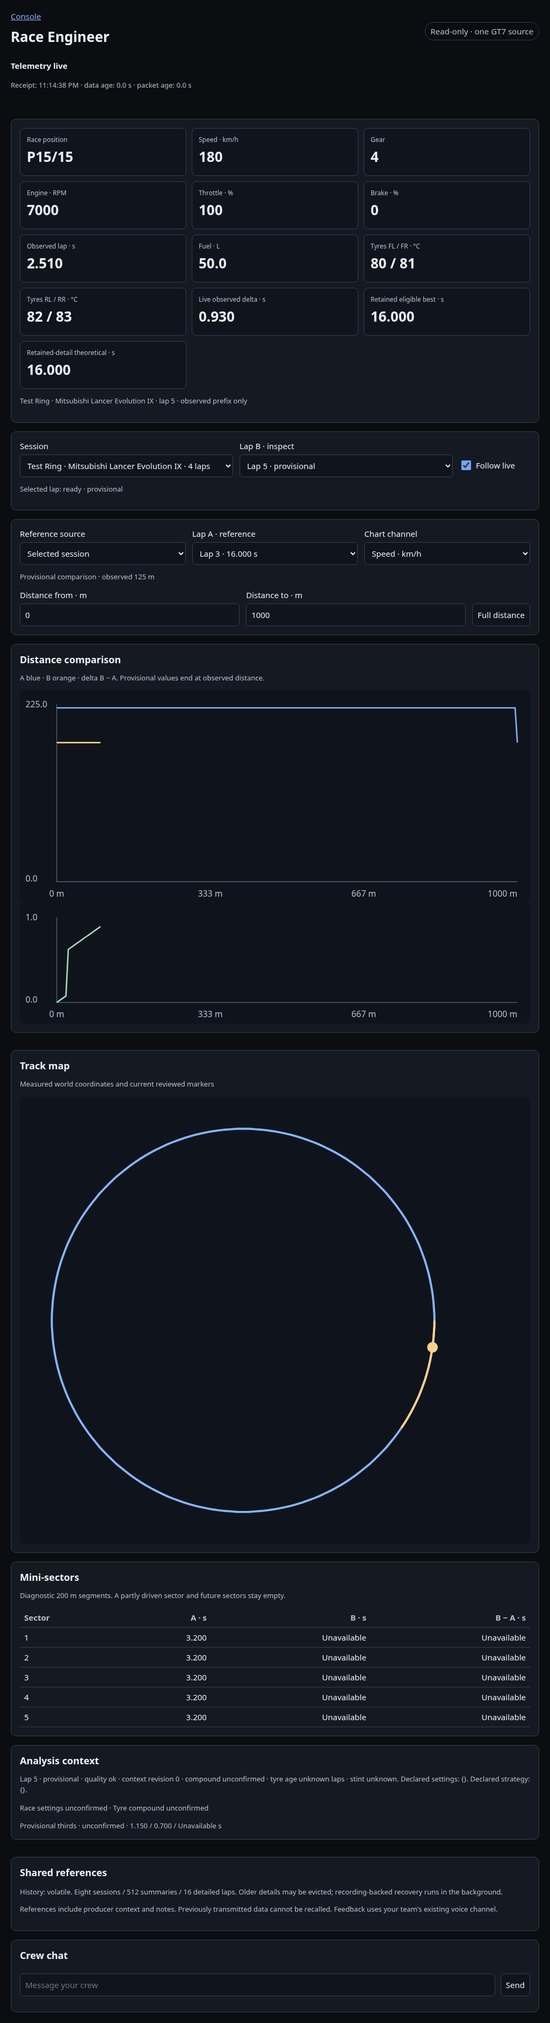
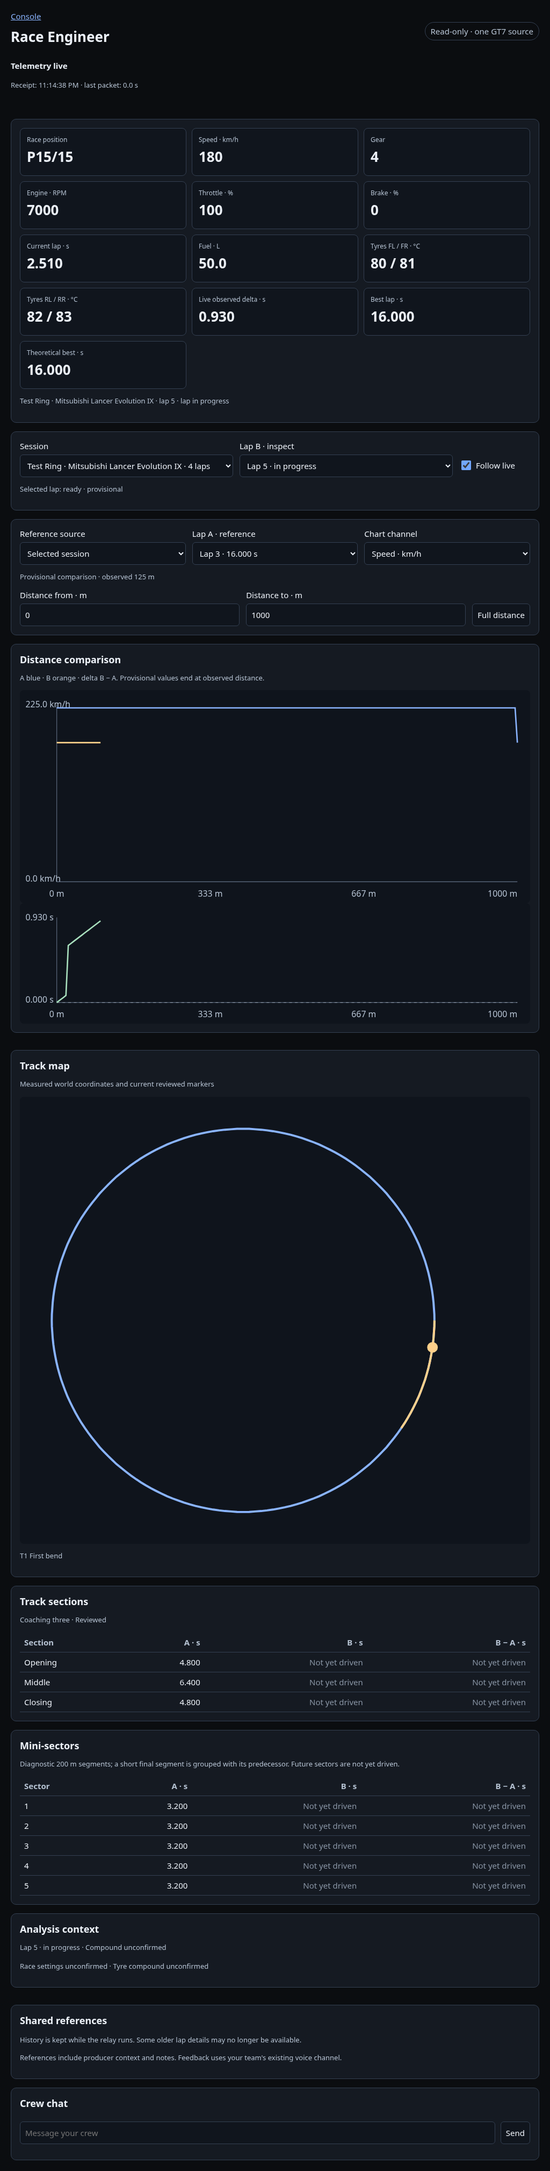
fix: clarify Engineer analysis values and sector displays

diff --git a/src/console/race-engineer.html b/src/console/race-engineer.html
@@ -6,7 +6,7 @@
 *{box-sizing:border-box}body{margin:0;background:var(--bg);color:var(--ink);font:15px system-ui}main{max-width:1600px;margin:auto;padding:20px}a{color:var(--blue)}header{display:flex;justify-content:space-between;align-items:center;gap:12px;flex-wrap:wrap}h1{font-size:26px;margin:10px 0}h2{font-size:18px;margin:0 0 12px}p{line-height:1.5}section,.card{background:var(--panel);border:1px solid var(--edge);border-radius:10px;padding:16px;margin-top:16px}.sub{color:var(--muted);font-size:13px}#status{font-weight:650}#notice{color:var(--orange);min-height:22px}#receipt{font-variant-numeric:tabular-nums}#instruments{display:grid;grid-template-columns:repeat(6,minmax(0,1fr));gap:10px}.value{padding:12px;border:1px solid var(--edge);border-radius:8px;background:#10151d}.value span{display:block;color:var(--muted);font-size:12px}.value strong{display:block;font-size:26px;margin:5px 0;font-variant-numeric:tabular-nums}.dim #instruments,.dim #plots{opacity:.5}.controls{display:flex;flex-wrap:wrap;gap:12px;align-items:end}.controls label{display:flex;flex-direction:column;gap:6px;flex:1;min-width:150px}.controls .check{flex:0 0 auto;flex-direction:row;align-items:center;min-width:120px;min-height:44px}select,input,button{font:inherit;color:var(--ink);background:#10151d;border:1px solid var(--edge);border-radius:6px;padding:9px;min-height:42px;max-width:100%}button{cursor:pointer}button:hover{border-color:var(--blue)}button:disabled{opacity:.5;cursor:default}input[type=checkbox]{min-height:0;width:18px;height:18px;accent-color:#72a7ff}input[type=range]{padding:0}#plots{display:grid;grid-template-columns:1.4fr 1fr;gap:16px}.plot-card{min-width:0}svg{display:block;width:100%;height:auto;background:#0f141c;border-radius:8px}svg text{fill:var(--muted);font:12px system-ui}#context-grid{display:grid;grid-template-columns:1fr 1fr;gap:16px}.scroll{overflow-x:auto}table{border-collapse:collapse;width:100%;font-variant-numeric:tabular-nums}th,td{text-align:right;padding:8px;border-bottom:1px solid var(--edge);white-space:nowrap}th:first-child,td:first-child{text-align:left}th{color:var(--muted)}#references{padding-left:22px}#references li{margin:6px 0}#chatlog{max-height:180px;overflow:auto;white-space:pre-wrap}#chat-form{display:flex;gap:10px;margin-top:10px}#chatin{flex:1;min-width:0}.mobile-note{display:none}.badge{padding:6px 10px;border:1px solid var(--edge);border-radius:20px;color:var(--muted)}[hidden]{display:none!important}
 @media(max-width:1200px){#instruments{grid-template-columns:repeat(3,minmax(0,1fr))}#plots{grid-template-columns:1fr}#context-grid{grid-template-columns:1fr}}
 @media(max-width:600px){main{padding:12px}h1{font-size:23px}#instruments{grid-template-columns:repeat(2,minmax(0,1fr))}.value strong{font-size:23px}.controls label{min-width:130px}#analysis{display:none}.mobile-note{display:block}.badge{font-size:12px}section{padding:12px}#chat-form{flex-wrap:wrap}}
-</style>
+.not-driven{color:#8995a5;font-weight:400}.gain{color:#a8dfbd}.loss{color:#ffd08a}</style>
 <script>window.RC_API_BASE="__RC_API_BASE__";window.RC_API=p=>(window.RC_API_BASE||'')+p;if(location.search)history.replaceState({},'',location.pathname);</script>
 </head><body><main>
 <header><div><a href="/console">Console</a><h1>Race Engineer</h1></div><span class="badge">Read-only · one GT7 source</span></header>
@@ -14,16 +14,17 @@
 <div id="protected" hidden>
 <section aria-label="Live instruments"><div id="instruments">
 <div class="value"><span>Race position</span><strong id="race-position">Unavailable</strong></div>
-<div class="value"><span>Speed · km/h</span><strong id="speed">Unavailable</strong></div><div class="value"><span>Gear</span><strong id="gear">Unavailable</strong></div><div class="value"><span>Engine · RPM</span><strong id="rpm">Unavailable</strong></div><div class="value"><span>Throttle · %</span><strong id="throttle">Unavailable</strong></div><div class="value"><span>Brake · %</span><strong id="brake">Unavailable</strong></div><div class="value"><span>Observed lap · s</span><strong id="lap-time">Unavailable</strong></div>
-<div class="value"><span>Fuel · L</span><strong id="fuel">Unavailable</strong></div><div class="value"><span>Tyres FL / FR · °C</span><strong id="tyres-front">Unavailable</strong></div><div class="value"><span>Tyres RL / RR · °C</span><strong id="tyres-rear">Unavailable</strong></div><div class="value"><span>Live observed delta · s</span><strong id="delta">Unavailable</strong></div><div class="value"><span>Retained eligible best · s</span><strong id="best">Unavailable</strong></div><div class="value"><span>Retained-detail theoretical · s</span><strong id="theory">Unavailable</strong></div>
+<div class="value"><span>Speed · km/h</span><strong id="speed">Unavailable</strong></div><div class="value"><span>Gear</span><strong id="gear">Unavailable</strong></div><div class="value"><span>Engine · RPM</span><strong id="rpm">Unavailable</strong></div><div class="value"><span>Throttle · %</span><strong id="throttle">Unavailable</strong></div><div class="value"><span>Brake · %</span><strong id="brake">Unavailable</strong></div><div class="value"><span>Current lap · s</span><strong id="lap-time">Unavailable</strong></div>
+<div class="value"><span>Fuel · L</span><strong id="fuel">Unavailable</strong></div><div class="value"><span>Tyres FL / FR · °C</span><strong id="tyres-front">Unavailable</strong></div><div class="value"><span>Tyres RL / RR · °C</span><strong id="tyres-rear">Unavailable</strong></div><div class="value"><span>Live observed delta · s</span><strong id="delta">Unavailable</strong></div><div class="value"><span>Best lap · s</span><strong id="best">Unavailable</strong></div><div class="value"><span>Theoretical best · s</span><strong id="theory">Unavailable</strong></div>
 </div><p id="source-state" class="sub"></p></section>
 <section><div class="controls"><label>Session<select id="session"></select></label><label>Lap B · inspect<select id="lap-b"></select></label><label class="check"><input id="follow" type="checkbox" checked>Follow live</label><span id="new-laps" class="sub" role="status"></span></div><p id="lap-state" class="sub">Waiting for analysis</p><p class="mobile-note sub">Charts, map and extensive comparison are available on tablet and desktop.</p></section>
 <div id="analysis">
 <section><div class="controls"><label>Reference source<select id="reference-source"><option value="">Selected session</option></select></label><label>Lap A · reference<select id="lap-a"></select></label><label>Chart channel<select id="channel"><option value="speed_kmh">Speed · km/h</option><option value="throttle">Throttle · %</option><option value="brake">Brake · %</option><option value="steer_deg">Steering · degrees</option><option value="gear">Gear</option></select></label></div><p id="comparison-state" class="sub">Choose an eligible reference lap</p><div class="controls"><label>Distance from · m<input id="zoom-from" type="number" min="0" value="0"></label><label>Distance to · m<input id="zoom-to" type="number" min="1" value="1000"></label><button id="zoom-reset" type="button">Full distance</button></div></section>
-<div id="plots"><section class="plot-card"><h2>Distance comparison</h2><p class="sub">A blue · B orange · delta B − A. Provisional values end at observed distance.</p><svg id="chart" viewBox="0 0 720 300" aria-label="Telemetry chart" role="img"></svg><svg id="delta-chart" viewBox="0 0 720 170" aria-label="Time delta chart" role="img"></svg></section><section class="plot-card"><h2>Track map</h2><p class="sub">Measured world coordinates and current reviewed markers</p><svg id="map" viewBox="0 0 480 420" aria-label="Measured lap track map" role="img"></svg></section></div>
-<section><h2>Mini-sectors</h2><p class="sub">Diagnostic 200 m segments. A partly driven sector and future sectors stay empty.</p><div class="scroll"><table id="sectors"><thead><tr><th>Sector</th><th>A · s</th><th>B · s</th><th>B − A · s</th></tr></thead><tbody></tbody></table></div></section>
+<div id="plots"><section class="plot-card"><h2>Distance comparison</h2><p class="sub">A blue · B orange · delta B − A. Provisional values end at observed distance.</p><svg id="chart" viewBox="0 0 720 300" aria-label="Telemetry chart" role="img"></svg><svg id="delta-chart" viewBox="0 0 720 170" aria-label="Time delta chart" role="img"></svg></section><section class="plot-card"><h2>Track map</h2><p class="sub">Measured world coordinates and current reviewed markers</p><svg id="map" viewBox="0 0 480 420" aria-label="Measured lap track map" role="img"></svg><p id="map-turns" class="sub"></p></section></div>
+<section id="larger-sectors"></section>
+<section><h2>Mini-sectors</h2><p class="sub">Diagnostic 200 m segments; a short final segment is grouped with its predecessor. Future sectors are not yet driven.</p><div class="scroll"><table id="sectors"><thead><tr><th>Sector</th><th>A · s</th><th>B · s</th><th>B − A · s</th></tr></thead><tbody></tbody></table></div></section>
 </div>
-<div id="context-grid"><section><h2>Analysis context</h2><p id="context" class="sub">No selected lap</p><ul id="notes"></ul><p id="limitations" class="sub"></p><div id="larger-sectors" class="sub"></div></section><section><h2>Shared references</h2><ul id="references"></ul><p id="history-state" class="sub"></p><p class="sub">References include producer context and notes. Previously transmitted data cannot be recalled. Feedback uses your team's existing voice channel.</p></section></div>
+<div id="context-grid"><section><h2>Analysis context</h2><p id="context" class="sub">No selected lap</p><ul id="notes"></ul><p id="limitations" class="sub"></p></section><section><h2>Shared references</h2><ul id="references"></ul><p id="history-state" class="sub"></p><p class="sub">References include producer context and notes. Feedback uses your team's existing voice channel.</p></section></div>
 <section><h2>Crew chat</h2><div id="chatlog" role="log" aria-label="Crew chat"></div><form id="chat-form"><input id="chatin" aria-label="Crew message" maxlength="1000" placeholder="Message your crew"><button id="chatsend" type="submit">Send</button></form><p id="chat-status" class="sub"></p></section>
 </div></main><!--__CREW_FRAME__-->
 <script>
@@ -32,7 +33,7 @@ const $=id=>document.getElementById(id), num=(v,d=1)=>typeof v==='number'&&Numbe
 const state={stopped:false,busy:false,analysisBusy:false,epoch:0,generation:null,snapshot:null,received:0,connected:false,problem:null,historyRevision:null,laps:[],sessions:[],refs:[],refLaps:[],refSource:'',a:'',b:'',session:'',follow:true,zoom:null,detail:null,pair:null,outline:null,mapFrame:null,known:new Set(),newLaps:0,analysisAvailable:false,lastAccess:0,lastChat:0,controllers:new Set()};
 let timer;
 function say(text){$('notice').textContent=text;}
-function clearPlots(clearOutline=true){state.mapFrame=null;if(clearOutline)state.outline=null;for(const id of ['chart','delta-chart','map'])$(id).replaceChildren();$('sectors').tBodies[0].replaceChildren();$('delta').textContent='Unavailable';$('context').textContent='No selected lap';$('notes').replaceChildren();$('limitations').textContent='';$('larger-sectors').textContent='';state.detail=null;state.pair=null;}
+function clearPlots(clearOutline=true){state.mapFrame=null;$('map-turns').textContent='';if(clearOutline)state.outline=null;for(const id of ['chart','delta-chart','map'])$(id).replaceChildren();$('sectors').tBodies[0].replaceChildren();$('delta').textContent='Unavailable';$('context').textContent='No selected lap';$('notes').replaceChildren();$('limitations').textContent='';$('larger-sectors').replaceChildren();state.detail=null;state.pair=null;}
 function stop(message){state.stopped=true;state.epoch++;clearInterval(timer);for(const c of state.controllers)c.abort();state.controllers.clear();state.snapshot=null;state.laps=[];state.sessions=[];state.refs=[];state.refLaps=[];state.a=state.b=state.session=state.refSource='';state.zoom=null;state.known.clear();state.connected=false;clearPlots();$('protected').hidden=true;for(const id of ['references','notes','chatlog','larger-sectors','session','lap-a','lap-b','reference-source'])$(id).replaceChildren();for(const el of document.querySelectorAll('.value strong'))el.textContent='Unavailable';for(const id of ['source-state','history-state','lap-state','comparison-state','new-laps'])$(id).textContent='';$('chatin').value='';$('context').textContent='';$('limitations').textContent='';$('receipt').textContent='';$('status').textContent=message;}
 class AccessLost extends Error{}
 class ReferenceLost extends Error{}
@@ -49,7 +50,7 @@ async function request(route,query={},method='GET',body=null){
 }
 function resetGeneration(generation){if(state.generation&&state.generation!==generation){state.epoch++;state.laps=[];state.sessions=[];state.known.clear();state.historyRevision=null;state.a=state.b=state.session=state.refSource='';state.refLaps=[];state.zoom=null;state.newLaps=0;clearPlots();say('Relay restarted. A new live generation is active; previous recordings remain history.');}state.generation=generation;}
 function options(id,rows,selected,empty){const el=$(id);el.replaceChildren();if(empty!==undefined){const o=document.createElement('option');o.value='';o.textContent=empty;el.append(o);}for(const row of rows){const o=document.createElement('option');o.value=row.id;o.textContent=row.label;el.append(o);}if(selected&&!rows.some(r=>r.id===selected)){const o=document.createElement('option');o.value=selected;o.textContent='Unavailable selection';el.append(o);}el.value=selected;}
-function lapLabel(r){return `Lap ${r.lap} · ${r.state==='provisional'?'provisional':num(r.time_s,3)+' s'}${r.line_position!=null&&r.line_car_count!=null?' · finish P'+r.line_position+'/'+r.line_car_count:''}${r.detail_state==='evicted'?' · evicted':''}${!r.comparison_eligible&&r.state!=='provisional'?' · limited':''}`;}
+function lapLabel(r){if(r.lap<=0)return 'Out lap · not timed';return `Lap ${r.lap} · ${r.state==='provisional'?'in progress':r.time_s==null?'Not timed':num(r.time_s,3)+' s'}${r.line_position!=null&&r.line_car_count!=null?' · finish P'+r.line_position+'/'+r.line_car_count:''}${r.detail_state==='evicted'?' · detail no longer kept':''}${!r.comparison_eligible&&r.state!=='provisional'?' · excluded from best':''}`;}
 function carLabel(row){return row.car||('car '+(row.car_id??'unknown'));}
 function referenceLabel(row){const source=row.session_id?.split(':')[1];return state.refs.find(r=>r.id===source)?.label||'Shared reference';}
 function selections(){
@@ -67,41 +68,51 @@ function selections(){
  $('follow').checked=state.follow;$('new-laps').textContent=state.newLaps?`${state.newLaps} newly completed lap${state.newLaps===1?'':'s'}`:'';
 }
 function instruments(snap){const v=snap.instruments||{};$('race-position').textContent=v.race_position!=null&&v.car_count!=null?`P${v.race_position}/${v.car_count}`:'Unavailable';for(const [id,value,d] of [['speed',v.speed_kmh,0],['gear',v.gear,0],['rpm',v.rpm,0],['throttle',v.throttle,0],['brake',v.brake,0],['fuel',v.fuel_l,1],['lap-time',snap.current?.elapsed_s,3],['best',snap.best_s,3],['theory',snap.theoretical_s,3]])$(id).textContent=num(value,d);
+ for(const id of ['lap-time','best','theory'])$(id).classList.remove('not-driven');if(snap.current?.lap<=0){$('lap-time').textContent='Out lap';$('lap-time').classList.add('not-driven');}if(snap.current&&!state.laps.some(r=>r.comparison_eligible)){for(const [id,value]of [['best',snap.best_s],['theory',snap.theoretical_s]])if(value==null){$(id).textContent='No eligible lap';$(id).classList.add('not-driven');}}
  const tyres=v.tyres_c||[];$('tyres-front').textContent=num(tyres[0],0)+' / '+num(tyres[1],0);$('tyres-rear').textContent=num(tyres[2],0)+' / '+num(tyres[3],0);
- $('source-state').textContent=snap.current?`${snap.current.track||'Unknown track'} · ${snap.current.car||'Unknown car'} · lap ${snap.current.lap} · observed prefix only`:'Waiting for a lap';
- $('history-state').textContent=`History: ${snap.history}. Eight sessions / 512 summaries / 16 detailed laps. Older details may be evicted; recording-backed recovery runs in the background.`;
+ $('source-state').textContent=snap.current?`${snap.current.track||'Unknown track'} · ${snap.current.car||'Unknown car'} · lap ${snap.current.lap} · lap in progress`:'Waiting for a lap';
+ $('history-state').textContent=snap.history==='recording-backed'?'Recorded history available. Older lap details are loaded when selected.':'History is kept while the relay runs. Some older lap details may no longer be available.';
 }
-function age(){if(state.stopped||!state.snapshot)return;const r=state.snapshot.receipt||{},since=(performance.now()-state.received)/1000,age=r.age_s==null?null:r.age_s+since,packetAge=r.packet_age_s==null?null:r.packet_age_s+since;
+function age(){if(state.stopped||!state.snapshot)return;const r=state.snapshot.receipt||{},since=(performance.now()-state.received)/1000,packetAge=r.packet_age_s==null?null:r.packet_age_s+since;
  const disconnected=!state.connected||since>=5,stale=packetAge!=null&&packetAge>=5;
  const label=state.problem||(disconnected?'Browser disconnected':stale?'Telemetry stale':({live:'Telemetry live',paused:'Game paused',menu:'Game menu',loading:'Game loading',waiting:'Waiting for telemetry',preparing:'Preparing telemetry',delayed:'Analysis delayed',stale:'Telemetry stale'}[r.state]||'Telemetry unavailable'));
  $('status').textContent=label;$('protected').classList.toggle('dim',disconnected||stale||r.state==='paused'||r.state==='menu'||r.state==='delayed');
- $('receipt').textContent=`Receipt: ${r.packet_received_at==null?'Unavailable':new Date(r.packet_received_at*1000).toLocaleTimeString()} · data age: ${age==null?'Unavailable':num(age,1)+' s'} · packet age: ${packetAge==null?'Unavailable':num(packetAge,1)+' s'}`;
+ $('receipt').textContent=`Receipt: ${r.packet_received_at==null?'Unavailable':new Date(r.packet_received_at*1000).toLocaleTimeString()} · last packet: ${packetAge==null?'Unavailable':num(packetAge,1)+' s'}`;
 }
 const ns='http://www.w3.org/2000/svg';function svg(tag,attrs={},text){const node=document.createElementNS(ns,tag);for(const [k,v]of Object.entries(attrs))node.setAttribute(k,String(v));if(text!==undefined)node.textContent=text;return node;}
-function graph(id,series,key,height,length=1){const el=$(id);el.replaceChildren();const rows=series.flatMap(s=>s.rows),bounds=state.zoom||[0,Math.max(1,length)],min=bounds[0],max=Math.max(min+1,bounds[1]);const visible=rows.filter(p=>p.d>=min&&p.d<=max&&typeof p[key]==='number');let lo=Math.min(0,...visible.map(p=>p[key])),hi=Math.max(1,...visible.map(p=>p[key]));if(hi===lo)hi=lo+1;
+function graph(id,series,key,height,length=1){const el=$(id);el.replaceChildren();const rows=series.flatMap(s=>s.rows),bounds=state.zoom||[0,Math.max(1,length)],min=bounds[0],max=Math.max(min+1,bounds[1]);const visible=rows.filter(p=>p.d>=min&&p.d<=max&&Number.isFinite(p[key]));if(!visible.length){el.append(svg('text',{x:360,y:height/2,'text-anchor':'middle'},key==='delta'?'No comparison yet':'No measurements for this channel'));if(length>1){el.append(svg('path',{d:`M52 ${height-30}H702`,stroke:'#566377',fill:'none'}));for(let i=0;i<4;i++){const d=min+(max-min)*i/3;el.append(svg('text',{x:52+650*i/3,y:height-9,'text-anchor':i===3?'end':'middle'},num(d,0)+' m'));}}return;}
+ const unit=({speed_kmh:'km/h',throttle:'%',brake:'%',steer_deg:'°',delta:'s',gear:''})[key]||'',floor=key==='delta'?.001:1;let lo=Math.min(0,...visible.map(p=>p[key])),hi=Math.max(floor,...visible.map(p=>p[key]));if(hi===lo)hi=lo+floor;
  const X=d=>52+(d-min)/(max-min)*650,Y=v=>height-30-(v-lo)/(hi-lo)*(height-55);el.append(svg('path',{d:`M52 20V${height-30}H702`,stroke:'#566377',fill:'none'}));
+ if(key==='delta')el.append(svg('path',{d:`M52 ${Y(0)}H702`,stroke:'#8995a5','stroke-dasharray':'4 4','data-zero':'true',fill:'none'}));
  for(let i=0;i<4;i++){const d=min+(max-min)*i/3;el.append(svg('text',{x:X(d),y:height-9,'text-anchor':i===3?'end':'middle'},num(d,0)+' m'));}
- el.append(svg('text',{x:8,y:24},num(hi,1)),svg('text',{x:8,y:height-30},num(lo,1)));
- for(const s of series){let path='',pen=false;for(const p of s.rows){if(p.d<min||p.d>max||typeof p[key]!=='number'){pen=false;continue;}path+=(pen?'L':'M')+X(p.d).toFixed(1)+' '+Y(p[key]).toFixed(1);pen=true;}el.append(svg('path',{d:path,stroke:s.color,fill:'none','stroke-width':2}));}
+ el.append(svg('text',{x:8,y:24},num(hi,key==='delta'?3:1)+' '+unit),svg('text',{x:8,y:height-30},num(lo,key==='delta'?3:1)+' '+unit));
+ for(const s of series){let path='',pen=false;for(const p of s.rows){if(p.d<min||p.d>max||!Number.isFinite(p[key])){pen=false;continue;}path+=(pen?'L':'M')+X(p.d).toFixed(1)+' '+Y(p[key]).toFixed(1);pen=true;}el.append(svg('path',{d:path,stroke:s.color,fill:'none','stroke-width':2}));}
 }
+function cellValue(cell,value,future=false,empty='Unavailable',difference=false){cell.textContent=Number.isFinite(value)?num(value,3):future?'Not yet driven':empty;cell.classList.toggle('not-driven',!Number.isFinite(value)&&future);if(difference&&Number.isFinite(value))cell.classList.toggle(value<0?'gain':'loss',value!==0);}
+function miniRows(sectors,length){const n=Math.max(sectors.a.length,sectors.b.length),remainder=length%200,merge=n>1&&n===Math.ceil(length/200)&&remainder>0.01&&remainder<199.99;const rows=[];for(let i=0;i<n;i++){const last=merge&&i===n-2,indices=last?[i,i+1]:[i],sum=values=>indices.every(j=>Number.isFinite(values[j]))?indices.reduce((total,j)=>total+values[j],0):null;rows.push({label:last?`${i+1}–${i+2}`:String(i+1),end:last?length:Math.min(length,(i+1)*200),a:sum(sectors.a),b:sum(sectors.b),delta:sum(sectors.delta)});if(last)break;}return rows;}
+function readableContext(B){const labels={bop:'BoP',fixed_setup:'Fixed setup',tyre_x:'Tyre wear',fuel_x:'Fuel use',time_progression:'Time progression',time_of_day:'Time of day',fuel_map:'Fuel map',shortshift:'Short shift'},values={...(B.context_settings||{}),...(B.strategy||{})},declared=Object.entries(labels).filter(([key])=>values[key]!=null).map(([key,label])=>label+': '+(typeof values[key]==='boolean'?(values[key]?'Yes':'No'):String(values[key])));return [B.lap<=0?'Out lap · not timed':`Lap ${B.lap} · ${B.state==='provisional'?'in progress':'completed'}`,B.compound||'Compound unconfirmed',B.tyre_age_laps!=null?'Tyre age '+B.tyre_age_laps+' laps':null,...declared].filter(Boolean).concat(Object.entries(B.strategy?.targets||{}).map(([gear,rpm])=>`Shift target G${gear}: ${rpm} RPM`)).join(' · ');}
+function renderSections(B,A,pair,observed){const el=$('larger-sectors');el.replaceChildren();const section=B.larger_sectors;if(!section){el.textContent='No reviewed section definition';return;}const title=document.createElement('h2');title.textContent='Track sections';el.append(title);const status=document.createElement('p');status.className='sub';status.textContent=section.name+' · '+(section.reviewed?'Reviewed':'Unconfirmed');el.append(status);if(!section.reviewed)return;const other=A?.larger_sectors,matched=pair?.definition_compatible&&other?.reviewed&&section.variant_id===other.variant_id&&section.bounds_m?.length===other.bounds_m?.length&&section.bounds_m.every((v,i)=>v===other.bounds_m[i]);const table=document.createElement('table'),head=table.createTHead().insertRow();for(const label of ['Section','A · s','B · s','B − A · s']){const th=document.createElement('th');th.textContent=label;head.append(th);}const body=table.createTBody();for(let i=0;i<section.times_s.length;i++){const row=body.insertRow(),b=section.times_s[i],a=matched?other.times_s[i]:null,future=B.state==='provisional'&&section.bounds_m[i+1]>observed;row.insertCell().textContent=section.names[i]||'Section '+(i+1);cellValue(row.insertCell(),a,false,matched?'Unavailable':'No matching reference');cellValue(row.insertCell(),b,future);cellValue(row.insertCell(),Number.isFinite(a)&&Number.isFinite(b)&&pair.compatible?b-a:null,future,'Unavailable',true);}el.append(table);}
+function turnLabel(map,occupied,x,y,label){const text=svg('text',{'data-turn':'true'},label);map.append(text);for(let step=0;step<40;step++){const candidateY=Math.min(402,Math.max(18,y+(step%2?1:-1)*Math.ceil(step/2)*16)),candidateX=Math.min(438,Math.max(8,x+5));text.setAttribute('x',candidateX);text.setAttribute('y',candidateY);const b=text.getBBox(),box={x:candidateX,y:candidateY-14,w:b.width||label.length*8,h:16};if(!occupied.some(a=>box.x<a.x+a.w+4&&a.x<box.x+box.w+4&&box.y<a.y+a.h+2&&a.y<box.y+box.h+2)){occupied.push(box);return;}}text.remove();}
+
 function renderMarker(){const map=$('map');for(const node of map.querySelectorAll('[data-live-car]'))node.remove();const frame=state.mapFrame,position=state.snapshot?.instruments?.position,current=state.snapshot?.current,plane=frame?.plane,sameTrack=current&&plane&&(plane.track_id&&plane.track_id===current.track_id||plane.session_id===current.session_id);if(frame&&position&&sameTrack&&Number.isFinite(position.x)&&Number.isFinite(position.z))map.append(svg('circle',{cx:30+(position.x-frame.xmin)*frame.scale,cy:30+(position.z-frame.zmin)*frame.scale,r:5,fill:'#ffd08a','data-live-car':'true','aria-label':'Live car position'}));}
 function render(){const B=state.detail,pair=state.pair,outline=pair?.a?.trace_complete?pair.a:state.outline,A=pair?.a||(state.outline?.id===state.a?state.outline:null);clearPlots(false);state.detail=B;state.pair=pair;if(!B&&!outline)return;
  const trace=B?.trace||[],length=Math.max(1,outline?.length_m||outline?.trace?.at(-1)?.d||B?.length_m||trace.at(-1)?.d||0);if(!state.zoom&&!['zoom-from','zoom-to'].includes(document.activeElement?.id)){$('zoom-from').value=0;$('zoom-to').value=Math.round(length);}
  graph('chart',[{rows:A?.trace||[],color:'#8ab4ff'},{rows:trace,color:'#ffd08a'}],$('channel').value,300,length);
  graph('delta-chart',[{rows:pair?.delta||[],color:'#a8dfbd'}],'delta',170,length);
+ $('map-turns').textContent=B?.larger_sectors?.reviewed?(B.corner_metrics||[]).map(c=>'T'+c.number+(c.name?' '+c.name:'')).join(' · '):'';
  const map=$('map'),points=(outline?.trace?.length?outline.trace:trace).filter(p=>Number.isFinite(p.x)&&Number.isFinite(p.z));
  if(points.length){const xs=points.map(p=>p.x),zs=points.map(p=>p.z),xmin=Math.min(...xs),xmax=Math.max(...xs),zmin=Math.min(...zs),zmax=Math.max(...zs),scale=Math.min(420/Math.max(1,xmax-xmin),360/Math.max(1,zmax-zmin)),X=x=>30+(x-xmin)*scale,Y=z=>30+(z-zmin)*scale;
   for(const [rows,color]of [[outline?.trace||[],'#8ab4ff'],[trace,'#ffd08a']])map.append(svg('path',{d:rows.filter(p=>Number.isFinite(p.x)&&Number.isFinite(p.z)).map((p,i)=>(i?'L':'M')+X(p.x).toFixed(1)+' '+Y(p.z).toFixed(1)).join(''),stroke:color,fill:'none','stroke-width':2,'data-outline':rows===outline?.trace?'complete':'observed'}));
   state.mapFrame={xmin,zmin,scale,plane:outline||B};renderMarker();
-  if(B?.larger_sectors?.reviewed)for(const c of B.corner_metrics||[]){const p=trace.find(p=>p.d>=c.apex_m);if(p)map.append(svg('text',{x:X(p.x)+5,y:Y(p.z)},'T'+c.number));}
+  if(B?.larger_sectors?.reviewed){const occupied=[];for(const c of B.corner_metrics||[]){const p=trace.find(p=>p.d>=c.apex_m);if(p)turnLabel(map,occupied,X(p.x),Y(p.z),'T'+c.number);}}
  }
  if(!B)return;
- const observed=trace.at(-1)?.d||0;const sectors=pair?.mini_sectors||{a:[],b:(B.sectors||[]).map((v,i)=>B.state==='provisional'&&(i+1)*200>observed?null:v),delta:[]},body=$('sectors').tBodies[0];for(let i=0;i<Math.max(sectors.a.length,sectors.b.length);i++){const row=body.insertRow();for(const v of [String(i+1),num(sectors.a[i],3),num(sectors.b[i],3),num(sectors.delta[i],3)])row.insertCell().textContent=v;}
+ const observed=trace.at(-1)?.d||0;const sectors=pair?.mini_sectors||{a:[],b:(B.sectors||[]).map((v,i)=>B.state==='provisional'&&(i+1)*200>observed?null:v),delta:[]},body=$('sectors').tBodies[0];for(const item of miniRows(sectors,length)){const row=body.insertRow(),future=B.state==='provisional'&&item.end>observed;row.insertCell().textContent=item.label;cellValue(row.insertCell(),item.a,false,A?'Unavailable':'No reference');cellValue(row.insertCell(),item.b,future);cellValue(row.insertCell(),item.delta,future,'Unavailable',true);}
  const end=pair?.delta?.at(-1);$('delta').textContent=pair?.compatible&&end&&B.id===state.snapshot?.current?.id?num(end.delta,3):'Unavailable';
- $('context').textContent=`Lap ${B.lap} · ${B.state} · quality ${B.data_quality||'unknown'} · context revision ${B.context_revision??'unavailable'} · ${B.compound||'compound unconfirmed'} · tyre age ${B.tyre_age_laps??'unknown'} laps · stint ${B.stint_id||'unknown'}. Declared settings: ${JSON.stringify(B.context_settings||{})}. Declared strategy: ${JSON.stringify(B.strategy||{})}.`;
+ $('context').textContent=readableContext(B);
  $('notes').replaceChildren();for(const n of B.notes||[]){const li=document.createElement('li');li.textContent=n.text;$('notes').append(li);}
  $('limitations').textContent=[...(pair?.warnings||B.context_warnings||[]),...(B.track_definition_warnings||[])].filter((x,i,a)=>a.indexOf(x)===i).join(' · ');
- $('larger-sectors').textContent=B.larger_sectors?`${B.larger_sectors.name} · ${B.larger_sectors.reviewed?'reviewed':'unconfirmed'} · ${(B.larger_sectors.times_s||[]).map(v=>num(v,3)).join(' / ')} s`:'No confirmed larger-sector definition';
+ renderSections(B,A,pair,observed);
 }
 function revoke(message){state.epoch++;state.refSource='';state.refLaps=[];if(state.a.startsWith('r:'))state.a='';if(state.b.startsWith('r:')){state.b=state.snapshot?.current?.id||'';state.session=state.snapshot?.session_id||'';}clearPlots();say(message||'Shared reference was revoked or removed. Its protected view has been cleared.');}
 async function access(){const data=await request('/race-engineer/access');state.analysisAvailable=!!data.analysis_available;state.refs=data.references||[];$('references').replaceChildren();for(const r of state.refs){const li=document.createElement('li');li.textContent=r.label;$('references').append(li);}if(state.refSource&&!state.refs.some(r=>r.id===state.refSource))revoke();$('protected').hidden=false;return data;}

diff --git a/tools/e2e-engineer-display.py b/tools/e2e-engineer-display.py
@@ -1,0 +1,89 @@
+#!/usr/bin/env python3
+"""Signed desk browser checks for empty, provisional and reviewed analysis display."""
+import asyncio
+import re
+import sys
+import tempfile
+from pathlib import Path
+
+ROOT = Path(__file__).resolve().parents[1]
+sys.path.insert(0, str(ROOT/'tests'))
+from engineer_ui_fixture import Fixture, gate
+
+async def main():
+    from playwright.async_api import async_playwright
+    with tempfile.TemporaryDirectory(prefix='racecast-display-') as root:
+        fixture=Fixture(root); fixture.access().update(enabled=True,expected=0)
+        server=fixture.console(with_live=True); fixture.feed_live()
+        try:
+            async with async_playwright() as pw:
+                browser=await pw.chromium.launch(headless=True)
+                page=await browser.new_page(viewport={'width':1440,'height':1050})
+                token=gate.m.console_auth.mint_token(gate.SECRET,'engineer')
+                await page.goto(f'http://127.0.0.1:{server.server_port}/console/race-engineer?t={token}')
+                await page.wait_for_function('() => EngineerDesk.state.pair?.state === "ready" && !EngineerDesk.state.analysisBusy')
+                await page.evaluate('() => {clearInterval(timer);state.savedB=structuredClone(state.detail);state.savedPair=structuredClone(state.pair);}')
+                context=await page.locator('#context').inner_text()
+                assert '{}' not in context and 'Declared settings' not in context, 'empty JSON remained in context'
+                body=await page.locator('body').inner_text()
+                assert '512 summaries' not in body and 'cannot be recalled' not in body, 'internal limits remained on desk'
+                assert 'Retained-detail' not in body and 'observed prefix only' not in body and 'data age' not in body, 'technical jargon remained'
+                cell=page.locator('#sectors tbody tr').first.locator('td').nth(2)
+                assert await cell.inner_text() == 'Not yet driven', 'future sector rendered as missing data'
+                assert 'not-driven' in (await cell.get_attribute('class') or ''), 'future sector was not muted'
+                assert await cell.evaluate('(el)=>getComputedStyle(el).color!==getComputedStyle(document.body).color'), 'future placeholder used the measured-value color'
+                out=await page.evaluate('() => lapLabel({lap:0,state:"confirmed",time_s:null,comparison_eligible:false})')
+                assert 'Out lap' in out and 'Unavailable' not in out and 'Lap 0' not in out, 'out lap read as missing timed lap'
+                assert 'Out lap' in await page.evaluate('() => readableContext({lap:0,state:"confirmed"})'), 'out-lap context claimed a completed lap'
+                await page.evaluate('() => graph("delta-chart",[],"delta",170,0)')
+                empty=await page.locator('#delta-chart').text_content()
+                assert 'No comparison' in empty and '0 m' not in empty, 'empty delta chart invented axes'
+                await page.evaluate('() => graph("delta-chart",[{rows:[{d:0,delta:-1},{d:1000,delta:1}],color:"red"}],"delta",170,1000)')
+                assert 's' in await page.locator('#delta-chart').text_content(), 'delta axis lost seconds'
+                assert await page.locator('#delta-chart [data-zero]').count() == 1, 'delta chart lost zero line'
+                zero=await page.locator('#delta-chart [data-zero]').get_attribute('d')
+                curve=await page.locator('#delta-chart path').last.get_attribute('d')
+                points=re.findall(r'(?:M|L)([\d.]+) ([\d.]+)',curve)
+                middle=(float(points[0][1])+float(points[-1][1]))/2
+                assert abs(float(zero.split()[1].split('H')[0])-middle)<.01, 'zero line did not cross zero delta' 
+                # The display groups the 3 m tail with the preceding 200 m block.
+                await page.evaluate('''() => {state.detail={...state.savedB,state:"confirmed",trace_complete:true,length_m:1003,trace:[{d:0,t:0,x:0,z:0},{d:1003,t:16,x:1,z:1}],sectors:[3,3,3,3,3,.02]};state.pair={compatible:true,b:state.detail,a:{...state.detail,id:"other",sectors:[3,3,3,3,3,.01]},delta:[],mini_sectors:{a:[3,3,3,3,3,.01],b:[3,3,3,3,3,.02],delta:[0,0,0,0,0,.01]}};render();}''')
+                assert await page.locator('#sectors tbody tr').count() == 5, 'tiny trailing mini-sector remained separate'
+                last=await page.locator('#sectors tbody tr').last.inner_text()
+                assert '3.010' in last and '3.020' in last and '0.010' in last, 'grouped tail lost measured times'
+                await page.evaluate('() => {state.pair.mini_sectors.b[5]=null;render();}')
+                assert await page.locator('#sectors tbody tr').last.locator('td').nth(2).inner_text() == 'Unavailable', 'missing tail produced a summed time'
+                # Only matching reviewed definitions may show a larger-sector delta.
+                await page.evaluate('''() => {const sections={reviewed:true,name:"Three race sections",names:["Opening","Middle","Closing"],bounds_m:[0,300,700,1003],times_s:[3,7,6],variant_id:"three"};state.detail={...state.detail,larger_sectors:sections,definition_fingerprint:"same",sector_variant_id:"three",corner_metrics:Array.from({length:8},(_,i)=>({number:i+1,apex_m:1003}))};state.pair={...state.pair,b:state.detail,a:{...state.detail,larger_sectors:{...sections,times_s:[4,6,6]}},definition_compatible:true};render();}''')
+                table=page.locator('#larger-sectors table')
+                assert await table.locator('tbody tr').count() == 3, 'reviewed sections were not structured'
+                text=await table.inner_text()
+                assert 'Opening' in text and '-1.000' in text and '1.000' in text, 'reviewed sections lost gain/loss'
+                boxes=await page.locator('#map text[data-turn]').evaluate_all('(nodes) => nodes.map(n=>{const r=n.getBBox();return {x:r.x,y:r.y,w:r.width,h:r.height};})')
+                assert len(boxes) == 8, 'adjacent turn labels disappeared'
+                assert all(a['x']+a['w']<=b['x'] or b['x']+b['w']<=a['x'] or a['y']+a['h']<=b['y'] or b['y']+b['h']<=a['y'] for i,a in enumerate(boxes) for b in boxes[i+1:]), 'turn labels overlapped'
+                for mutation, restore in [
+                    ('state.pair.a.larger_sectors.reviewed=false', 'state.pair.a.larger_sectors.reviewed=true'),
+                    ('state.pair.a.larger_sectors.variant_id="other"', 'state.pair.a.larger_sectors.variant_id="three"'),
+                    ('state.pair.a.larger_sectors.bounds_m=[0,301,700,1003]', 'state.pair.a.larger_sectors.bounds_m=[0,300,700,1003]'),
+                    ('state.pair.a.larger_sectors.bounds_m=[0,300,1003]', 'state.pair.a.larger_sectors.bounds_m=[0,300,700,1003]'),
+                    ('state.pair.compatible=false', 'state.pair.compatible=true'),
+                    ('state.pair.a.larger_sectors.times_s=[null,6,6]', 'state.pair.a.larger_sectors.times_s=[4,6,6]')]:
+                    await page.evaluate('() => {'+mutation+';render();}')
+                    assert '-1.000' not in await page.locator('#larger-sectors').inner_text(), 'unmatched reference sections claimed a delta'
+                    await page.evaluate('() => {'+restore+';render();}')
+                await page.evaluate('() => {state.pair.definition_compatible=false;render();}')
+                assert '-1.000' not in await page.locator('#larger-sectors').inner_text(), 'mismatched sections claimed a delta'
+                await page.evaluate('() => {state.detail.larger_sectors.reviewed=false;render();}')
+                assert 'Unconfirmed' in await page.locator('#larger-sectors').inner_text(), 'unreviewed sections claimed confirmation'
+                assert await page.locator('#larger-sectors table').count() == 0, 'unreviewed sections rendered confirmed timing rows'
+                await page.evaluate('''() => {state.detail={...state.savedB,context_settings:{bop:true,fuel_x:3},strategy:{fuel_map:2,targets:{"3":6500},shortshift:"<img src=x onerror=alert(1)>"}};state.pair=null;render();}''')
+                named=await page.locator('#context').inner_text()
+                assert 'BoP' in named and '3' in named and 'Fuel map' in named and 'Shift target G3: 6500 RPM' in named, 'declared values were not named'
+                assert await page.locator('#context img').count() == 0, 'declared context became HTML'
+                await browser.close()
+        finally:
+            server.shutdown();server.server_close();fixture.live.close()
+    print('PASS Engineer desk display cleanup: all eight items')
+
+if __name__=='__main__':asyncio.run(main())

diff --git a/tools/e2e-engineer-desk.py b/tools/e2e-engineer-desk.py
@@ -16,7 +16,11 @@ async def main():
     with tempfile.TemporaryDirectory(prefix='racecast-desk-browser-') as root:
         fixture=Fixture(root)
         fixture.access().update(enabled=True,expected=0)
-        server=fixture.console(with_live=True); fixture.feed_live()
+        server=fixture.console(with_live=True)
+        if '--shots' in sys.argv:
+            from test_gt7_track_definitions import definition
+            fixture.live._definitions.save(definition(), 0)
+        fixture.feed_live()
         import gt7_recording, gt7_telemetry
         wall, _, raw = list(gt7_recording.Recording(fixture.live_path).packets())[-1]
         fixture.live.put(gt7_telemetry.parse_packet(raw)._replace(race_position=15, car_count=15), wall + .02)
@@ -38,7 +42,7 @@ async def main():
                 errors=[];page.on('pageerror',lambda e:errors.append(str(e)))
                 await page.wait_for_function('() => EngineerDesk.state.pair?.state === "ready"')
                 assert await page.locator('#chart path').count() >= 2
-                assert await page.locator('#sectors tbody tr').first.locator('td').nth(2).inner_text() == 'Unavailable'
+                assert await page.locator('#sectors tbody tr').first.locator('td').nth(2).inner_text() == 'Not yet driven'
                 assert await page.locator('#zoom-to').input_value() == '1000'
                 # A pending comparison must still use a completed lap as the outline.
                 async def pending_pair(route):

diff --git a/src/docs/wiki/Race-Engineer.md b/src/docs/wiki/Race-Engineer.md
@@ -17,7 +17,7 @@ and live delta describe received data; neither advances without new packets.
 Race position reads **P15/15**, for example, from GT7's own-car position and field
 size. Missing or inconsistent readings remain unavailable. Completed lap options
 include the position measured at the line when GT7 provided it. No gaps to
-other cars are inferred. Receipt time, data age and packet age remain visible.
+other cars are inferred. Receipt time and age of the last telemetry packet remain visible.
 
 Select **Session** and **Lap B** to inspect retained current or prior-session laps.
 Sessions show the track, vehicle name and lap count; unknown names fall back to
@@ -26,7 +26,8 @@ Select an eligible **Lap A** from the selected session, or choose a producer-sha
 **Reference source**. The charts use the same validated distance stations, sector
 and context rules as the local Control Center. Blue is A, orange is B, delta is
 B minus A. The current lap is provisional; future curve sections and incomplete
-200 m sectors remain empty. Confirmed best and theoretical values exclude it.
+200 m sectors say **Not yet driven** in muted text. Missing measurements remain
+**Unavailable**, and untimed lap zero reads **Out lap**. Confirmed best and theoretical values exclude it.
 While the lap grows, comparison retains the latest completed observed prefix and
 refreshes it in the background. Its displayed distance identifies that prefix.
 The map uses the complete selected reference lap as its outline, or the latest
@@ -39,8 +40,13 @@ Change the chart channel or distance limits to inspect braking, throttle, speed,
 steering or gear. **Full distance** resets zoom. The map uses measured world
 coordinates. The car marker comes from the latest measured snapshot, independently of
 the selected lap endpoint. Missing coordinates and unrelated historical tracks
-do not show a current car. Larger sectors and corner markers keep their reviewed/unconfirmed
-status. Unknown tracks compare only within the same source and session; known
+do not show a current car. Reviewed larger sections show named A/B times and gain or loss when both laps
+use the same confirmed definition. Unconfirmed definitions retain their status.
+A short trailing mini-sector is grouped with its predecessor for display; shared
+analysis values are unchanged. Curves show their channel units, delta has a zero
+line, and an empty comparison has a message, retains known distance and omits artificial axes. Turn labels
+avoid overlaps and have a textual legend. Declared settings and strategy use named
+values rather than raw JSON. Unknown tracks compare only within the same source and session; known
 car, compound or strategy contradictions prevent the default comparison.
 
 **Follow live** selects the newest active lap. Manually choosing a session or lap

diff --git a/src/docs/design/engineer-desk-display-cleanup.md b/src/docs/design/engineer-desk-display-cleanup.md
@@ -1,0 +1,19 @@
+# Engineer desk display cleanup
+
+Requirements and verification for all eight items in #853 under #850. Nothing is deferred.
+
+| Item | Production path | Positive proof | Failure proof | Runtime proof |
+| --- | --- | --- | --- | --- |
+| Readable declared context | Desk context formatter | Named settings and strategy values | Empty objects omitted; arbitrary text stays text | Signed desk and browser assertions |
+| Operator-facing history text | Desk history/reference copy | Recovery and availability explained | Internal counts and data-recall warning absent from desk | Browser text |
+| Missing versus not driven | Tiles, lap labels and sector cells | Muted not-driven states and out-lap label | Missing confirmed data stays Unavailable | Actual provisional prefix plus boundary fixtures |
+| Delta axes and zero | SVG graph | Seconds and zero line with known full distance | Empty graph keeps known distance only; no invented range | Browser SVG assertions |
+| Tiny trailing segment | Mini-sector presentation | Trailing remainder grouped with preceding segment | Missing/incomplete values cannot produce a summed time | Browser 1003 m fixture; shared analysis unchanged |
+| Turn label collisions | Map label placement | Distinct bounded labels for adjacent turns | Unplaceable label has a readable legend entry | Browser overlapping-apex fixture |
+| Reviewed larger sections | Section table | Names, A/B times and gain/loss for the same reviewed definition | Unreviewed/mismatched definitions never claim a matched delta | Real synthetic reviewed definition and browser |
+| Plain terminology | Tiles/source/receipt/status | Current lap, best lap, theoretical best and last packet age | No duplicate data-age label or retained-detail jargon | Three viewport screenshots |
+
+The presentation groups a trailing incomplete 200 m block with its preceding
+block. It sums only known times and preserves all shared numerical analysis and
+raw distance stations. A pending/future block never supplies a complete time.
+Larger-sector comparisons require matching reviewed definition and variant.
